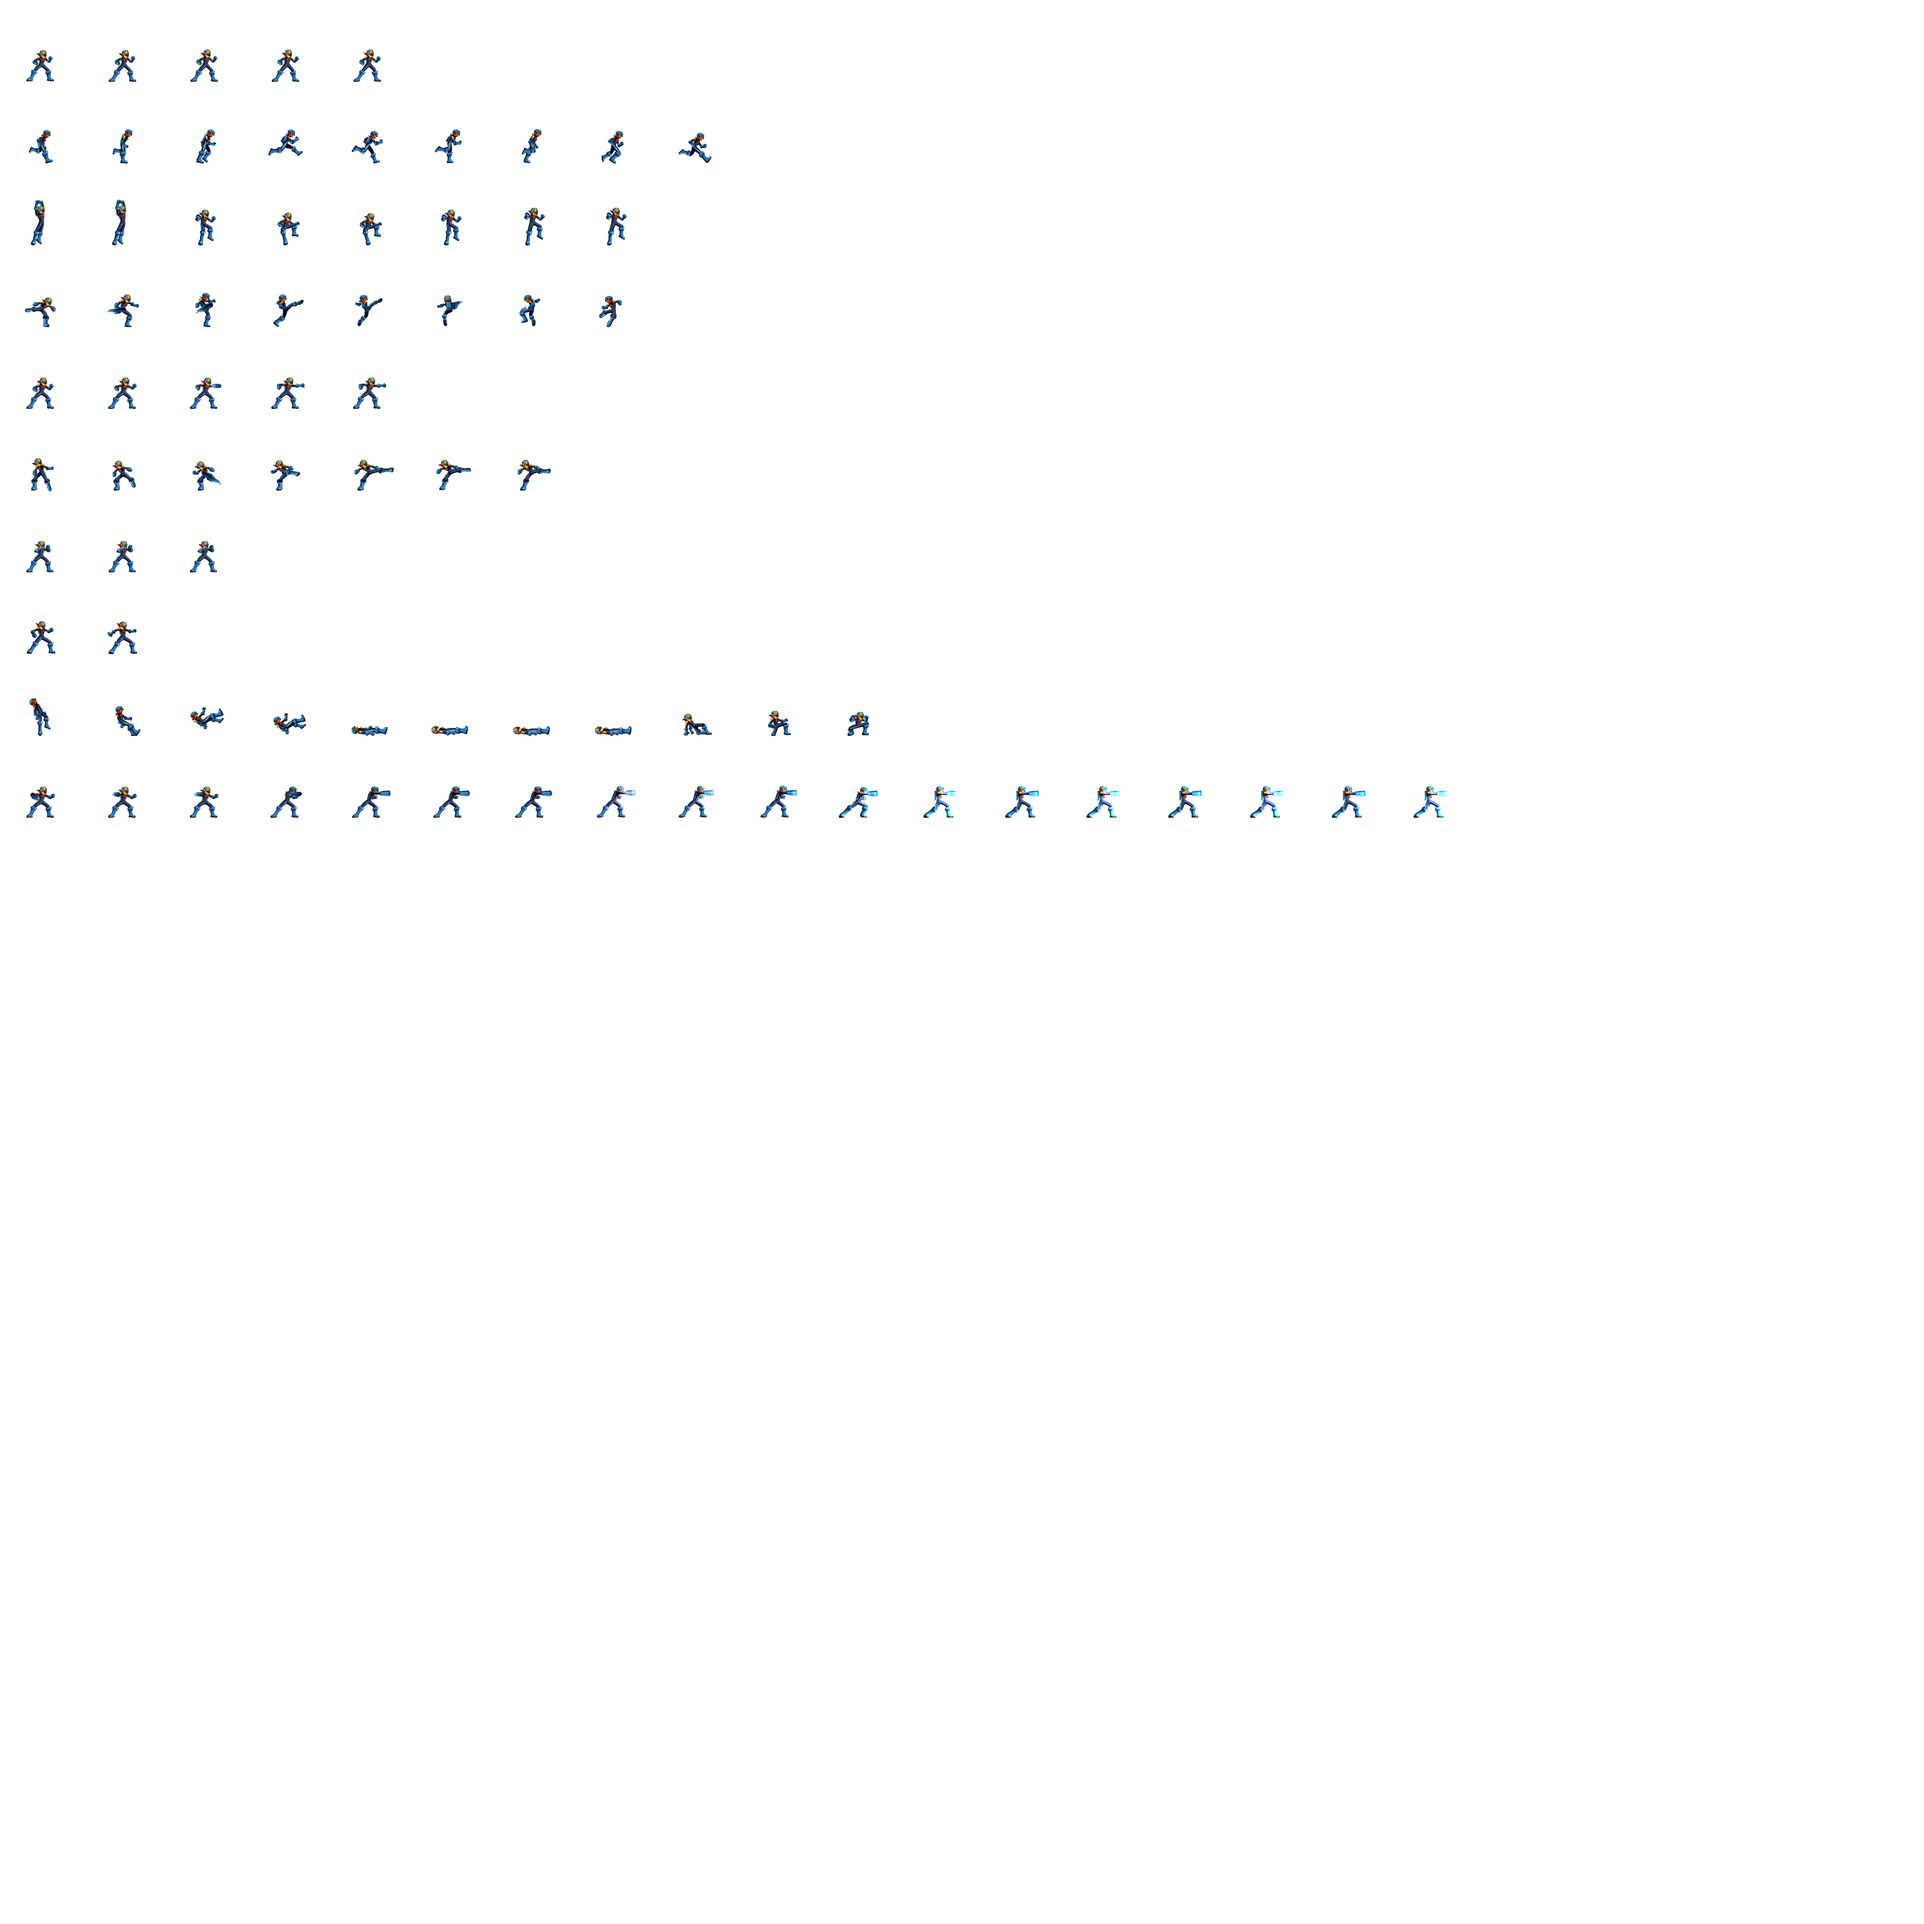
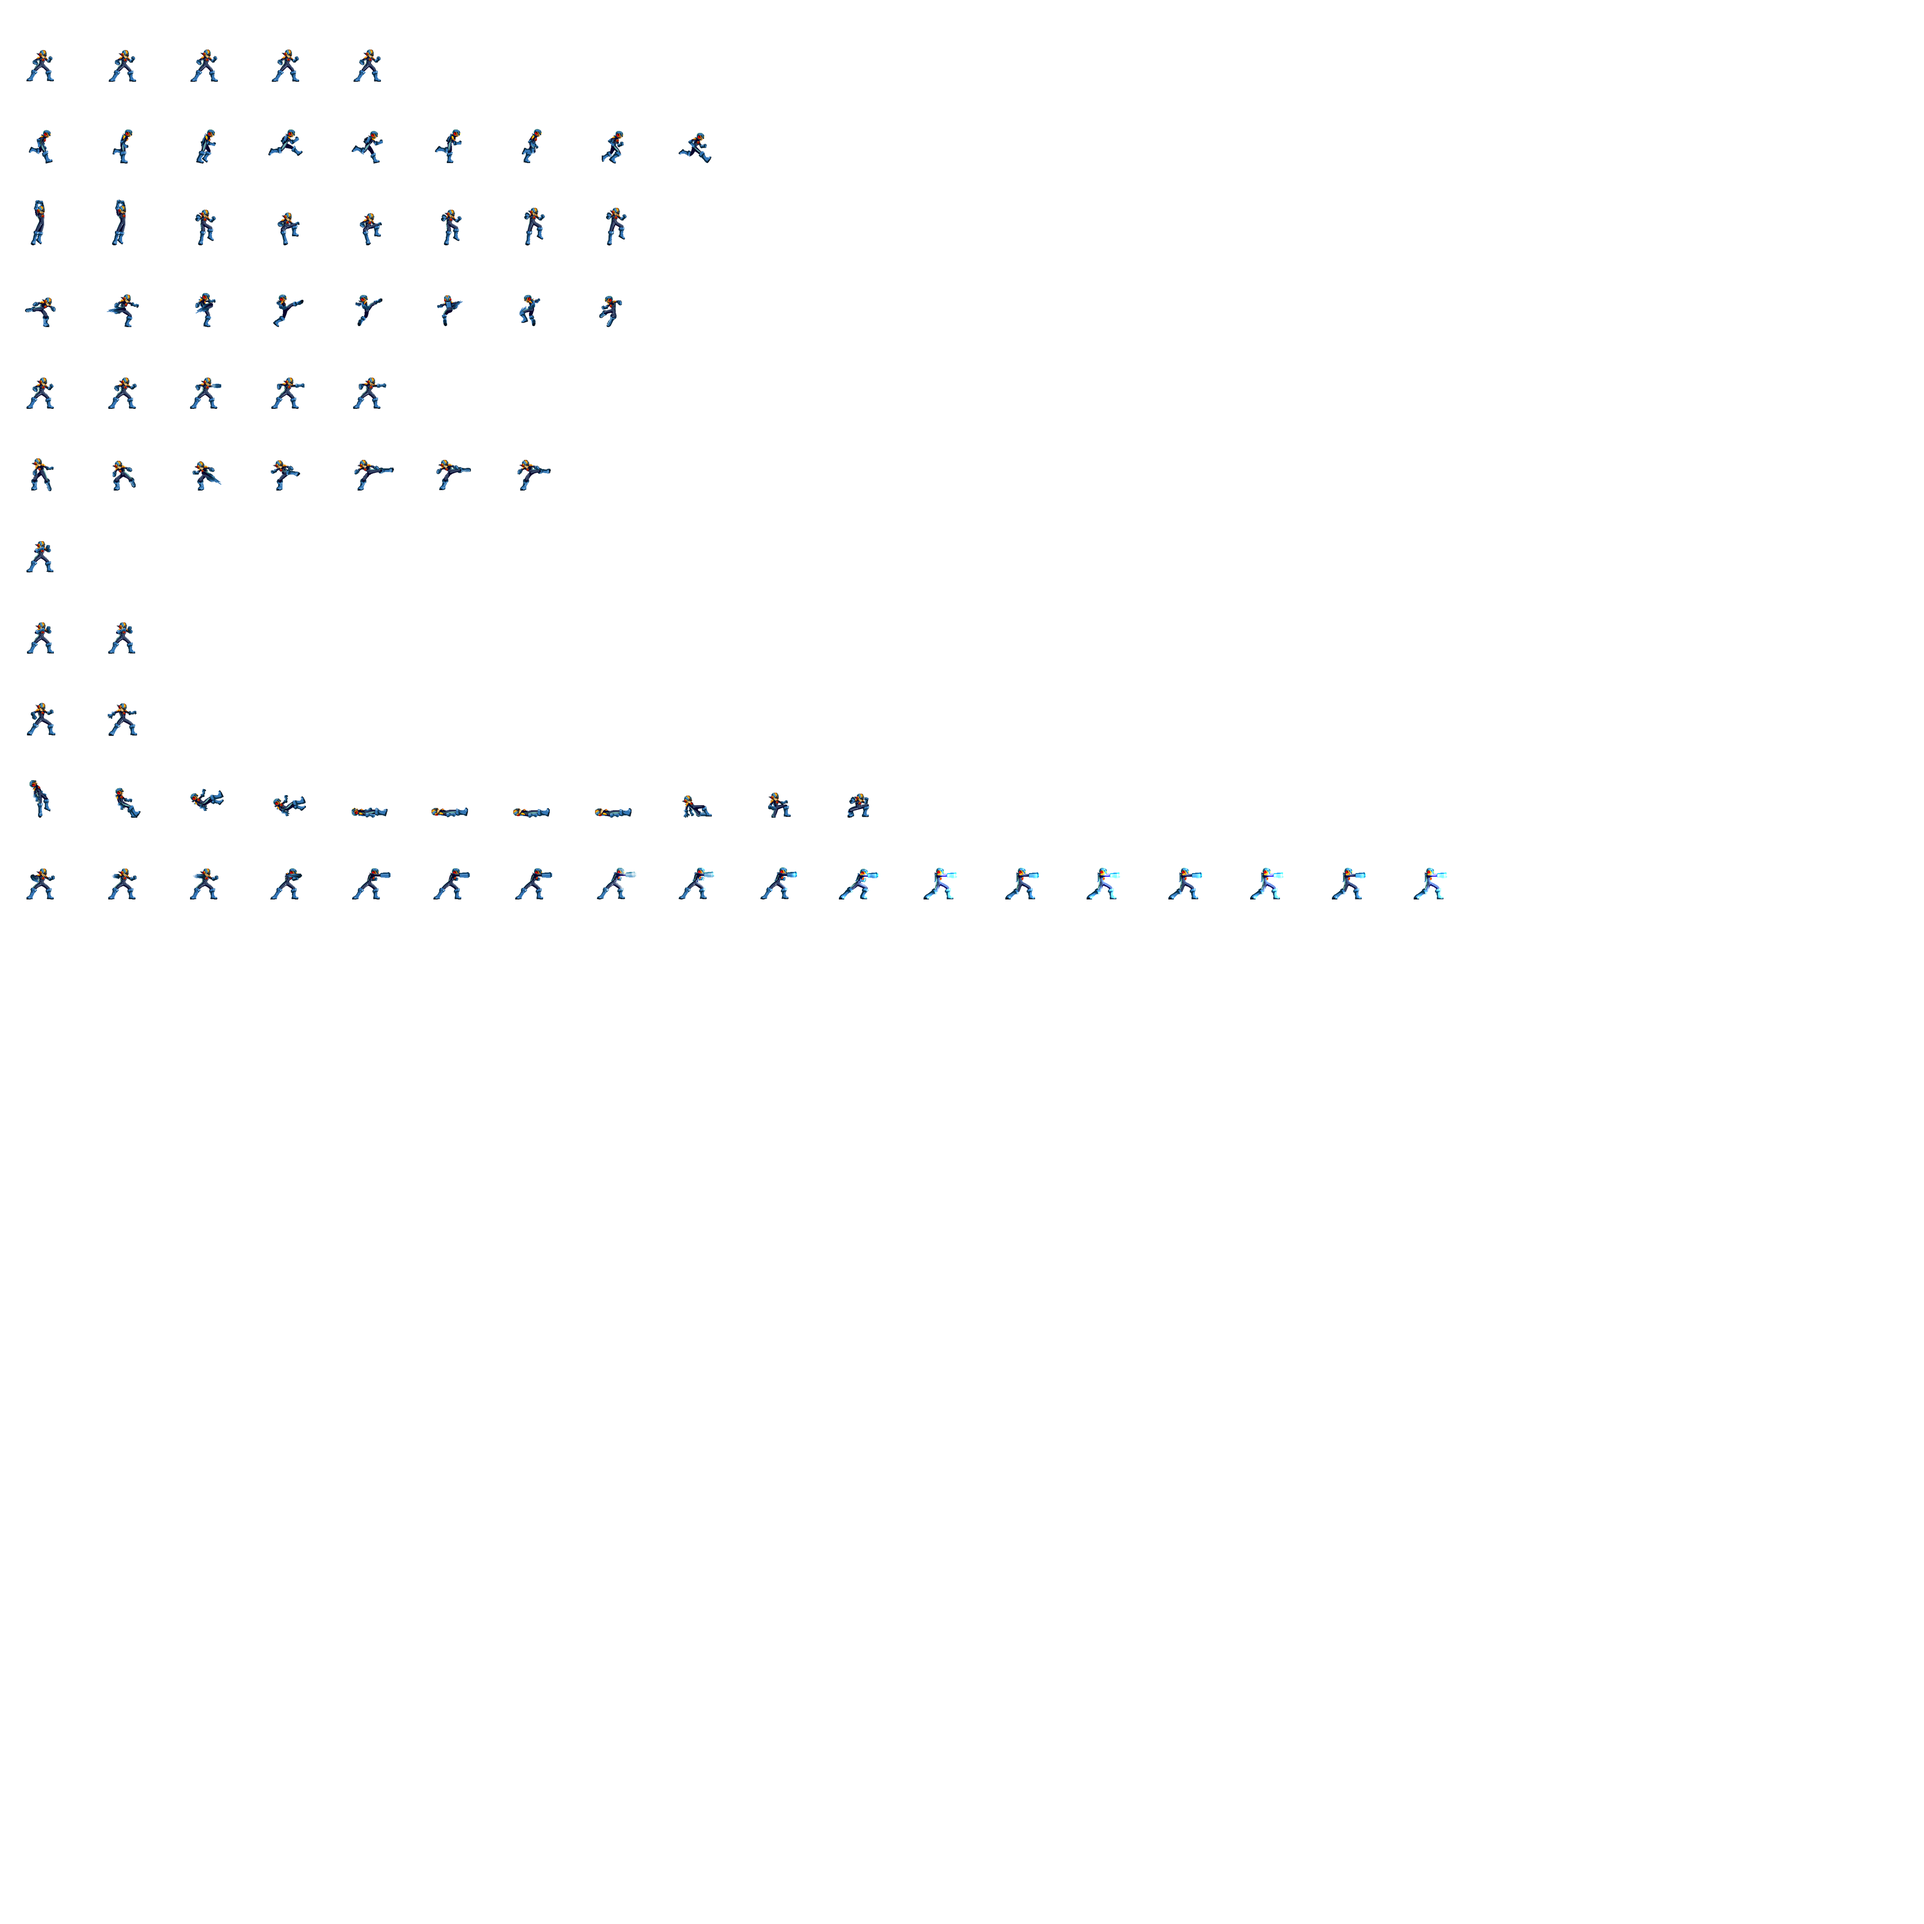
Swall rework

diff --git a/UltraBrawl/UltraBrawl/PlayerCharacter.cs b/UltraBrawl/UltraBrawl/PlayerCharacter.cs
@@ -110,31 +110,31 @@ namespace UltraBrawl
             //block
             spriteSheet.addSegment(pcFrameSize, new Point(0, 6), pcSegmentEndings.ElementAt(6), pcSegmentTimings.ElementAt(6));
             //blockhit
-            spriteSheet.addSegment(pcFrameSize, new Point(1, 6), pcSegmentEndings.ElementAt(7), pcSegmentTimings.ElementAt(7));
+            spriteSheet.addSegment(pcFrameSize, new Point(0, 7), pcSegmentEndings.ElementAt(7), pcSegmentTimings.ElementAt(7));
             //hit
-            spriteSheet.addSegment(pcFrameSize, new Point(0, 7), pcSegmentEndings.ElementAt(8), pcSegmentTimings.ElementAt(8));
+            spriteSheet.addSegment(pcFrameSize, new Point(0, 8), pcSegmentEndings.ElementAt(8), pcSegmentTimings.ElementAt(8));
             //knockdown
-            spriteSheet.addSegment(pcFrameSize, new Point(0, 8), pcSegmentEndings.ElementAt(9), pcSegmentTimings.ElementAt(9));
+            spriteSheet.addSegment(pcFrameSize, new Point(0, 9), pcSegmentEndings.ElementAt(9), pcSegmentTimings.ElementAt(9));
             //charging
-            spriteSheet.addSegment(pcFrameSize, new Point(0, 9), pcSegmentEndings.ElementAt(10), pcSegmentTimings.ElementAt(10));
+            spriteSheet.addSegment(pcFrameSize, new Point(0, 10), pcSegmentEndings.ElementAt(10), pcSegmentTimings.ElementAt(10));
             //superIdle
-            spriteSheet.addSegment(pcFrameSize, new Point(0, 10), pcSegmentEndings.ElementAt(11), pcSegmentTimings.ElementAt(11));
+            spriteSheet.addSegment(pcFrameSize, new Point(0, 11), pcSegmentEndings.ElementAt(11), pcSegmentTimings.ElementAt(11));
             //superRunning
-            spriteSheet.addSegment(pcFrameSize, new Point(0, 11), pcSegmentEndings.ElementAt(12), pcSegmentTimings.ElementAt(12));
+            spriteSheet.addSegment(pcFrameSize, new Point(0, 12), pcSegmentEndings.ElementAt(12), pcSegmentTimings.ElementAt(12));
             //superJumping
-            spriteSheet.addSegment(pcFrameSize, new Point(0, 12), pcSegmentEndings.ElementAt(13), pcSegmentTimings.ElementAt(13));
+            spriteSheet.addSegment(pcFrameSize, new Point(0, 13), pcSegmentEndings.ElementAt(13), pcSegmentTimings.ElementAt(13));
             //superJumpKick
-            spriteSheet.addSegment(pcFrameSize, new Point(0, 13), pcSegmentEndings.ElementAt(14), pcSegmentTimings.ElementAt(14));
+            spriteSheet.addSegment(pcFrameSize, new Point(0, 14), pcSegmentEndings.ElementAt(14), pcSegmentTimings.ElementAt(14));
             //superPunch
-            spriteSheet.addSegment(pcFrameSize, new Point(0, 14), pcSegmentEndings.ElementAt(15), pcSegmentTimings.ElementAt(15));
+            spriteSheet.addSegment(pcFrameSize, new Point(0, 15), pcSegmentEndings.ElementAt(15), pcSegmentTimings.ElementAt(15));
             //superKick
-            spriteSheet.addSegment(pcFrameSize, new Point(0, 15), pcSegmentEndings.ElementAt(16), pcSegmentTimings.ElementAt(16));
+            spriteSheet.addSegment(pcFrameSize, new Point(0, 16), pcSegmentEndings.ElementAt(16), pcSegmentTimings.ElementAt(16));
             //superBlock
-            spriteSheet.addSegment(pcFrameSize, new Point(0, 16), pcSegmentEndings.ElementAt(17), pcSegmentTimings.ElementAt(17));
+            spriteSheet.addSegment(pcFrameSize, new Point(0, 17), pcSegmentEndings.ElementAt(17), pcSegmentTimings.ElementAt(17));
             //superBlockhit
-            spriteSheet.addSegment(pcFrameSize, new Point(1, 16), pcSegmentEndings.ElementAt(18), pcSegmentTimings.ElementAt(18));
+            spriteSheet.addSegment(pcFrameSize, new Point(0, 18), pcSegmentEndings.ElementAt(18), pcSegmentTimings.ElementAt(18));
             //superHit
-            spriteSheet.addSegment(pcFrameSize, new Point(0, 17), pcSegmentEndings.ElementAt(19), pcSegmentTimings.ElementAt(19));
+            spriteSheet.addSegment(pcFrameSize, new Point(0, 19), pcSegmentEndings.ElementAt(19), pcSegmentTimings.ElementAt(19));
 
             // define the states
             states = new AbstractState[NUM_STATES];
@@ -832,7 +832,7 @@ namespace UltraBrawl
 
                 if ((player.chargeTimer + 500) > chargeMax)
                 {
-                    player.chargedOne();
+                    player.chargedOne(); 
                 }
                 if (!player.canSuper)
                 {

diff --git a/UltraBrawl/UltraBrawl/Characters/Goku.cs b/UltraBrawl/UltraBrawl/Characters/Goku.cs
@@ -42,19 +42,19 @@ namespace UltraBrawl
             base.pcSegmentEndings.Add(new Point(3, 4)); //punch
             base.pcSegmentEndings.Add(new Point(6, 5)); //kick
             base.pcSegmentEndings.Add(new Point(0, 6)); //block
-            base.pcSegmentEndings.Add(new Point(2, 6)); //blockhit
-            base.pcSegmentEndings.Add(new Point(2, 7)); //hit
-            base.pcSegmentEndings.Add(new Point(13, 8)); //knockdown
-            base.pcSegmentEndings.Add(new Point(18, 9)); //charging
-            base.pcSegmentEndings.Add(new Point(4, 10)); //superIdle
-            base.pcSegmentEndings.Add(new Point(5, 11)); //superRunning
-            base.pcSegmentEndings.Add(new Point(9, 12)); //superJumping
-            base.pcSegmentEndings.Add(new Point(13, 13)); //superJumpkicking
-            base.pcSegmentEndings.Add(new Point(3, 14)); //superPunch
-            base.pcSegmentEndings.Add(new Point(6, 15)); //superKick
-            base.pcSegmentEndings.Add(new Point(0, 16)); //superBlock
-            base.pcSegmentEndings.Add(new Point(2, 16)); //superBlockhit
-            base.pcSegmentEndings.Add(new Point(2, 17)); //superHit
+            base.pcSegmentEndings.Add(new Point(1, 7)); //blockhit
+            base.pcSegmentEndings.Add(new Point(1, 8)); //hit
+            base.pcSegmentEndings.Add(new Point(13, 9)); //knockdown
+            base.pcSegmentEndings.Add(new Point(18, 10)); //charging
+            base.pcSegmentEndings.Add(new Point(4, 11)); //superIdle
+            base.pcSegmentEndings.Add(new Point(5, 12)); //superRunning
+            base.pcSegmentEndings.Add(new Point(9, 13)); //superJumping
+            base.pcSegmentEndings.Add(new Point(13, 14)); //superJumpkicking
+            base.pcSegmentEndings.Add(new Point(3, 15)); //superPunch
+            base.pcSegmentEndings.Add(new Point(6, 16)); //superKick
+            base.pcSegmentEndings.Add(new Point(0, 17)); //superBlock
+            base.pcSegmentEndings.Add(new Point(1, 18)); //superBlockhit
+            base.pcSegmentEndings.Add(new Point(1, 19)); //superHit
             base.knockDownEndFrame = 6;
     
             base.pcSegmentTimings.Add(50); //idle
